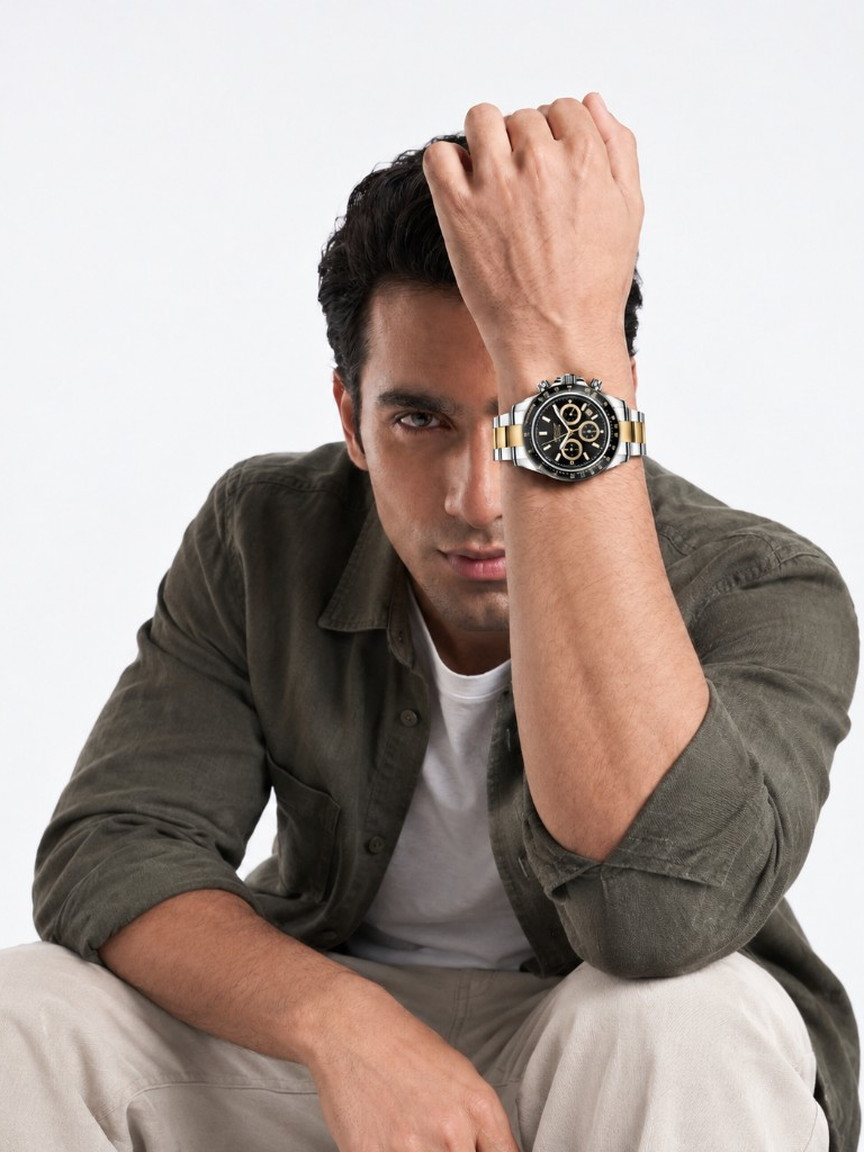
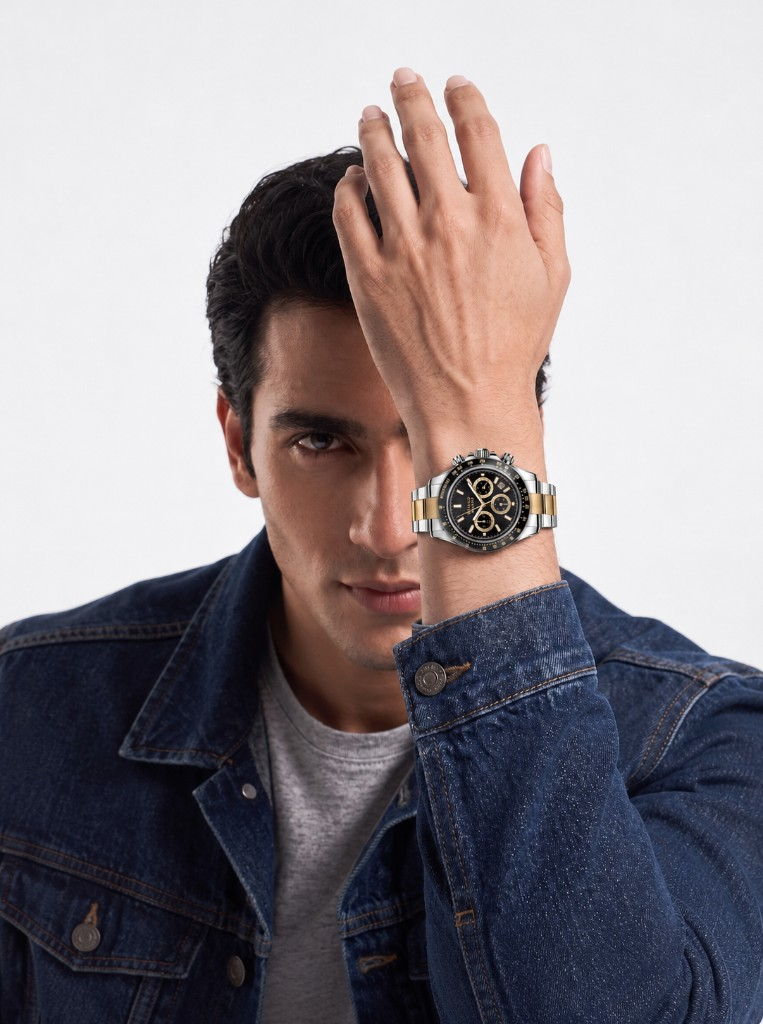
assetn

diff --git a/index.html b/index.html
@@ -37,7 +37,7 @@
       href="https://cdn.shopify.com/s/files/1/0888/8929/5134/files/simple-replace_in_output-1790747430833-fauc4.jpg?v=1790747433"
       media="(min-width: 768px)"
     />
-    <link rel="stylesheet" href="css/site.css?v=wa116" />
+    <link rel="stylesheet" href="css/site.css?v=wa118" />
   </head>
   <body>
     <a class="skip" href="#main">Skip to content</a>
@@ -478,8 +478,8 @@
       <section class="split" aria-label="Men and women">
         <a class="split-panel" href="https://www.brunomilano.com/collections/mens-watches">
           <picture>
-            <source media="(max-width: 767px)" srcset="assets/split-men-m.jpg?v=2" width="864" height="1152" />
-            <img src="assets/split-men.jpg?v=2" alt="" width="1024" height="1024" loading="lazy" decoding="async" />
+            <source media="(max-width: 767px)" srcset="assets/split-men-m.jpg?v=6" width="763" height="1024" />
+            <img src="assets/split-men.jpg?v=5" alt="" width="2048" height="2048" loading="lazy" decoding="async" />
           </picture>
           <span>
             <strong>Men</strong>
@@ -1027,6 +1027,6 @@
       </div>
     </footer>
 
-    <script src="js/site.js?v=wa49" defer></script>
+    <script src="js/site.js?v=wa50" defer></script>
   </body>
 </html>

diff --git a/js/site.js b/js/site.js
@@ -119,8 +119,7 @@
     },
     {
       handle: "metropolis-classic-blu-rosso",
-      image:
-        "https://assets.gethelium.co/workspaces/8e1e09b2-cbed-4d3c-b595-0e0489afab3d/generative/8a390908-f64d-4423-ad3c-a6a4f52d6ba3/0-064df79eeed7677a8daa5e5b02341c19d3c2222f40dade996881143026ea4dc0.png",
+      image: "assets/boardroom.jpg?v=1",
       scene: "The boardroom",
       line: "Meeting, closed.",
       alt: "Man in a boardroom wearing Metropolis Classic - Blu-Rosso",
@@ -137,8 +136,7 @@
     },
     {
       handle: "manzoni-perla-rosa",
-      image:
-        "https://assets.gethelium.co/workspaces/8e1e09b2-cbed-4d3c-b595-0e0489afab3d/generative/3f7a6ea5-554e-44d8-a160-8e6ca0bac1c2/0-4e80dfc263a9f4c51bbd92ceb245c547e763861ede211207f7f5a25268f92823.png",
+      image: "assets/office-hours.jpg?v=1",
       scene: "Office hours",
       line: "Across the glass.",
       alt: "Woman in a boardroom wearing Manzoni - Perla Rosa",
